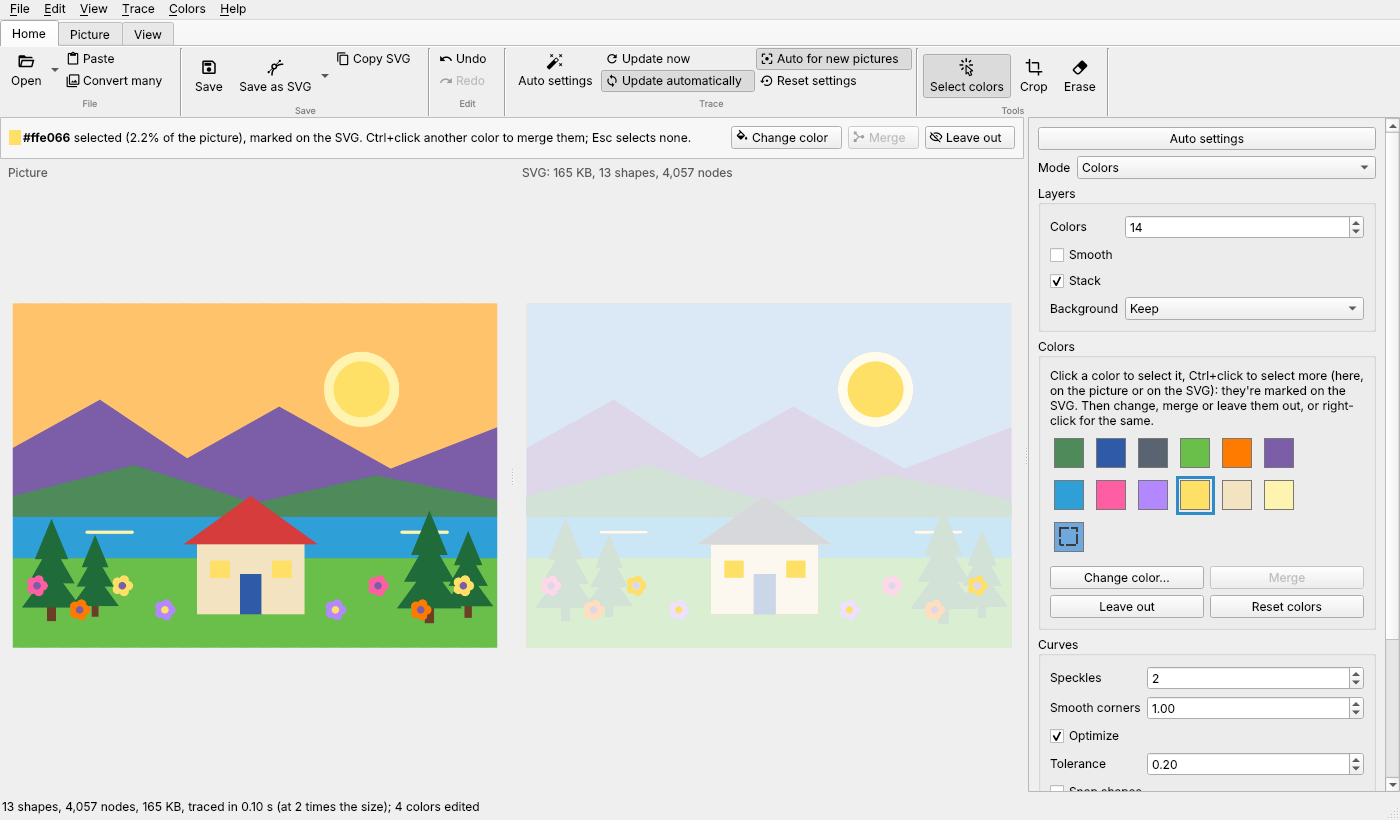
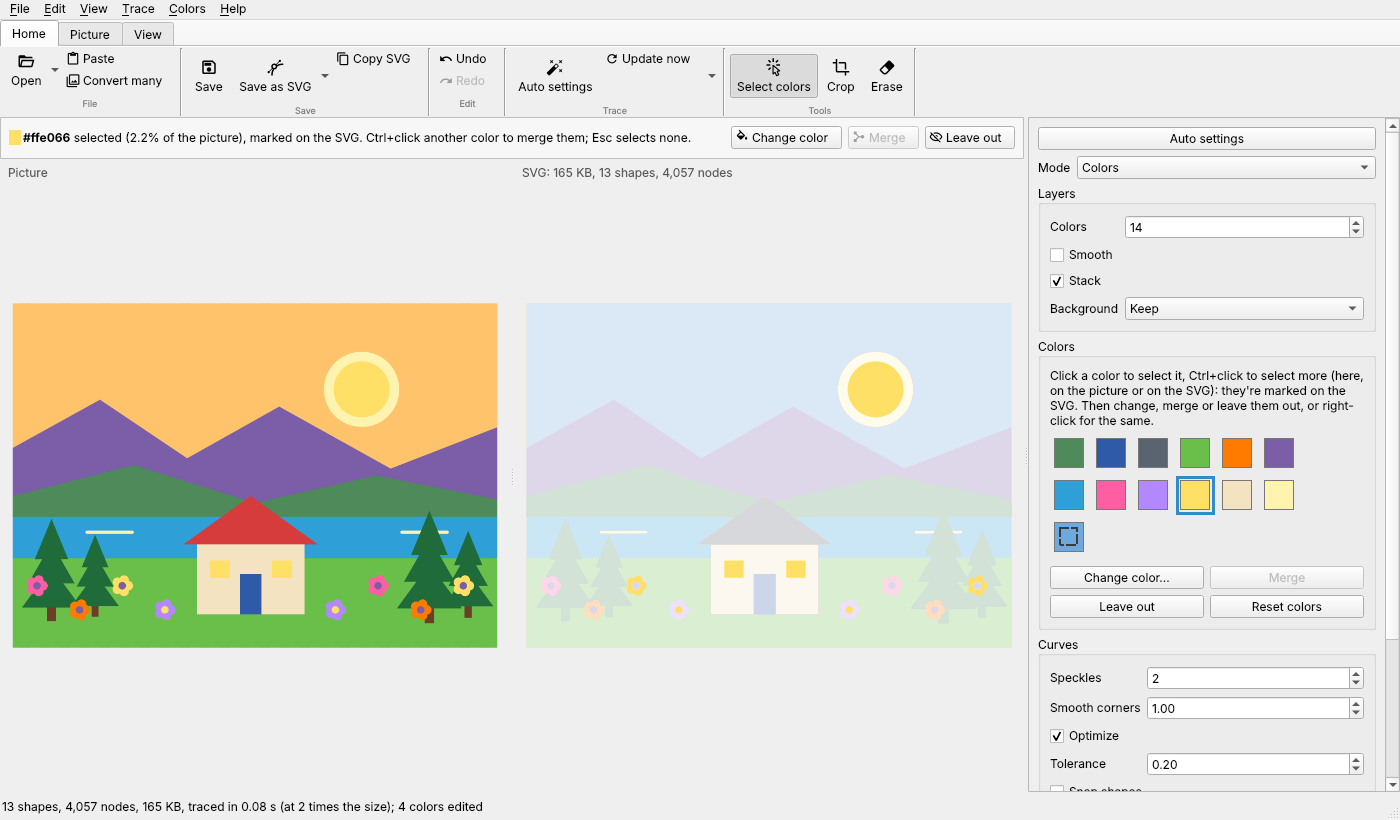
Ribbon: the Trace group's switches under its arrow (the Spanish Home tab didn't fit 1366 px on Linux)
GitHub's Linux machine has wider fonts: the Spanish Home tab needed 1,439
pixels. Update automatically, Auto for new pictures and Reset settings are
listed under the Trace group's arrow; Auto settings and Update now stay as
buttons. Screenshots made again.

Claude-Session: https://claude.ai/code/session_01Ho1n52Zg59vnp58FuFfp21

Changed region(s): [[0.3686, 0.061, 0.7986, 0.122], [0.1843, 0.9756, 0.3379, 1.0]]

diff --git a/kanzonassvg/app.py b/kanzonassvg/app.py
@@ -1690,8 +1690,10 @@ class MainWindow(QMainWindow):
             (tr("File"), "large", [self.b_open, Stack([self.a_paste, self.a_many])]),
             (tr("Save"), "large", [self.a_save, save_as, Stack([self.a_copy])]),
             (tr("Edit"), "small", [self.a_undo, self.a_redo]),
-            (tr("Trace"), "large", [self.a_auto_settings, Stack([self.a_update, self.a_auto]),
-                                    Stack([self.a_auto_new, self.a_reset])]),
+            # (the switches used less often under the group's arrow: in Spanish, with the wider
+            # fonts of GitHub's Linux machine, the tab needed 1,439 pixels of the 1,366)
+            (tr("Trace"), "large", [self.a_auto_settings, Stack([self.a_update])],
+             [self.a_auto, self.a_auto_new, self.a_reset]),
             (tr("Tools"), "large", [self.a_select, self.a_crop, self.a_erase]),
         ])
         r.add_tab(tr("Picture"), [

diff --git a/CHANGELOG.md b/CHANGELOG.md
@@ -2,7 +2,7 @@
 
 | Version | Date | Commit | What changed |
 |---|---|---|---|
-| 1.5 | 2026-11-22 | (this one) | **A ribbon and tools that say what they do** (the owner: it wasn't clear how the editing tools worked). The ribbon (kanzonassvg/ribbon.py, KanzonasPDF's, adapted): Home (File: Open, with the pictures opened last under its arrow, Paste, Convert many; Save: Save, Save as with SVG/PDF/EPS/DXF under its arrow, Copy SVG; Edit; Trace; Tools), Picture (Tools; Colors: Change color, Merge, Leave out, Reset colors, Select none; Crop; Eraser) and View (Zoom; Show; Help), built from the menus' commands (the same names, shortcuts, checks and grayed states), group names shown, the tab kept, *View > Collapse the ribbon* (Ctrl+F1, or double-click a tab); every tab fits a 1366-pixel screen in English and Spanish. Its icons are Material Design Icons 6.9.96 (Apache-2.0, the font as in qtawesome 1.4.0, kanzonassvg/fonts, only the 36 used listed in kanzonassvg/icons.py: 25 ms at start, 67 with the whole character map), drawn in the system's text color. **The tools**: *Trace > Select colors* (new, on at first), *Crop picture* and *Erase on the picture*, one at a time; a bar above the picture and the SVG says what the one on does, with its controls (Select colors: Change color, Merge, Leave out for the selection, and what's selected; Erase: a Size slider, Restore the picture, Done; Crop: Cancel); Esc goes back to Select colors, then selects no color; a new picture starts with Select colors. **Colors**: the selected colors marked on the SVG (the SVG drawn with every other color faded 75% toward white, everything in its place: drawing only the selected colors over a faded SVG was wrong with Stack, a color's shape covering those stacked on it; tracing.marked); over the picture or the SVG, the status bar says which color a click selects, and the cursor is a hand; right-click on the picture, the SVG or a swatch: the color commands (the color there selected first) and the tools; a **Colors** menu (Change color..., Merge colors..., Leave out (Delete), Reset colors, Select no color); Merge's list opens where it was asked for. **Erase**: a circle shows the eraser at its size (was a crosshair). **Save as SVG/PDF/EPS/DXF** (the owner: picking the type in the file dialog's list was easy to miss): a command for each, the dialog listing only that kind with the extension filled in; Save asks the first time as the kind saved last. **The wheel** (the owner): over the picture it moves it (Shift: sideways) and Ctrl+wheel zooms (it zoomed, and a turn meant for the panel zoomed the picture); over the settings panel, a number or a list changes only once clicked into, else the panel scrolls (scrolling changed Colors, Speckles... on the way). Tests: tests/test_ribbon.py (15: built from the menus, icons, fits 1366 px in both languages, collapse, each Save as and its dialog, the tools one at a time, Esc, the eraser's size, a mode without colors, the mark (and with Stack), the hover hint, right-click menus and Merge from one, the wheel, the panel's numbers); self test "ribbon and tools" (the icon font in the finished programs, every ribbon button with an icon, the tools, the mark); app battery steps tool, hover, menu, save_as, wheel, ribbon, and a check that the mark is the selected colors' (the battery also reports an exception out of its own checks, which ended a run with nothing said). |
+| 1.5 | 2026-11-22 | (this one) | **A ribbon and tools that say what they do** (the owner: it wasn't clear how the editing tools worked). The ribbon (kanzonassvg/ribbon.py, KanzonasPDF's, adapted): Home (File: Open, with the pictures opened last under its arrow, Paste, Convert many; Save: Save, Save as with SVG/PDF/EPS/DXF under its arrow, Copy SVG; Edit; Trace: Auto settings, Update now, and Update automatically, Auto for new pictures and Reset settings under its arrow (as buttons, the Spanish tab needed 1,439 pixels on GitHub's Linux machine, whose fonts are wider; the test caught it); Tools), Picture (Tools; Colors: Change color, Merge, Leave out, Reset colors, Select none; Crop; Eraser) and View (Zoom; Show; Help), built from the menus' commands (the same names, shortcuts, checks and grayed states), group names shown, the tab kept, *View > Collapse the ribbon* (Ctrl+F1, or double-click a tab); every tab fits a 1366-pixel screen in English and Spanish. Its icons are Material Design Icons 6.9.96 (Apache-2.0, the font as in qtawesome 1.4.0, kanzonassvg/fonts, only the 36 used listed in kanzonassvg/icons.py: 25 ms at start, 67 with the whole character map), drawn in the system's text color. **The tools**: *Trace > Select colors* (new, on at first), *Crop picture* and *Erase on the picture*, one at a time; a bar above the picture and the SVG says what the one on does, with its controls (Select colors: Change color, Merge, Leave out for the selection, and what's selected; Erase: a Size slider, Restore the picture, Done; Crop: Cancel); Esc goes back to Select colors, then selects no color; a new picture starts with Select colors. **Colors**: the selected colors marked on the SVG (the SVG drawn with every other color faded 75% toward white, everything in its place: drawing only the selected colors over a faded SVG was wrong with Stack, a color's shape covering those stacked on it; tracing.marked); over the picture or the SVG, the status bar says which color a click selects, and the cursor is a hand; right-click on the picture, the SVG or a swatch: the color commands (the color there selected first) and the tools; a **Colors** menu (Change color..., Merge colors..., Leave out (Delete), Reset colors, Select no color); Merge's list opens where it was asked for. **Erase**: a circle shows the eraser at its size (was a crosshair). **Save as SVG/PDF/EPS/DXF** (the owner: picking the type in the file dialog's list was easy to miss): a command for each, the dialog listing only that kind with the extension filled in; Save asks the first time as the kind saved last. **The wheel** (the owner): over the picture it moves it (Shift: sideways) and Ctrl+wheel zooms (it zoomed, and a turn meant for the panel zoomed the picture); over the settings panel, a number or a list changes only once clicked into, else the panel scrolls (scrolling changed Colors, Speckles... on the way). Tests: tests/test_ribbon.py (15: built from the menus, icons, fits 1366 px in both languages, collapse, each Save as and its dialog, the tools one at a time, Esc, the eraser's size, a mode without colors, the mark (and with Stack), the hover hint, right-click menus and Merge from one, the wheel, the panel's numbers); self test "ribbon and tools" (the icon font in the finished programs, every ribbon button with an icon, the tools, the mark); app battery steps tool, hover, menu, save_as, wheel, ribbon, and a check that the mark is the selected colors' (the battery also reports an exception out of its own checks, which ended a run with nothing said). |
 | 1.4 | 2026-11-21 | 022f149 | Four pieces in one release. **Convert many pictures**: Many pictures at once in the window: *File > Convert many pictures...* (Ctrl+Shift+O), also when several pictures are picked in Open picture or dragged in, or a folder (kanzonassvg/batch.py). A list (add pictures, a folder's pictures but not its SVGs, drag in, remove, clear), Auto settings for each picture (the same SVG as opening it) or the settings shown (not the color edits or crop), SVG/PDF/EPS/DXF at the Saved width, next to each picture or in one folder (made if needed), files already there skipped unless Replace is on. One picture at a time in the background; each row says saved (shapes, nodes), skipped or why it failed, and the next is done anyway; Stop stops at once (closing the window too). Fixed before release (the app battery's new step found it): stopped before the first picture, the summary went back to "N pictures"; regression test. Tests: tests/test_batch.py; self test "converting many"; app battery step "many". **Snap shapes**: (Curves; `--snap`; kz_options.snap, core/src/snap.h): on each Potrace outline, a curve within 0.5 px and 1.5% of its length of its chord becomes a line, lines going on in one direction (within 0.35 px and 3%) one line; lines within 1.5 degrees (and 4 px) of level or upright exactly so (the points they join sharing one y or x, curves keeping their direction from a moved point); an outline within 0.5 px (0.4% of the radius when bigger) of an ellipse with level axes, going round once, that ellipse (a circle when the radii are within 2%), fitted on the equation then refined on the distances, as four exact arcs, the way it went round (holes stay holes). Off at first; Auto leaves it as set (also Convert many pictures' Auto); Undo, Reset settings, kept; not in Autotrace. Measured with Auto settings, off then on (badly wrong pixels, nodes): logo 0.253% 761 / 0.273% 677; logo JPEG 0.327% 756 / 0.333% 672; logo alpha 0.254% 1028 / 0.273% 921; smiley 0.238% 348 / 0.298% 250 (its face's ring isn't quite round in the picture: two perfect circles even it out); plan 0.001% 4464 / 0.001% 4337; Starry Night 2.865% 106784 / 2.873% 106439; sunflower 2.367% 4079 / 2.442% 3994; flat illustration 0.278% 4452 / 0.387% 2663. Off, the SVG is byte for byte what it was (tests/reference/quality.json unchanged). Tests: tests/test_snap.py; the engine battery and the fuzzer try it. **Outlines, eraser, Open recent, the help**: *View > Show outlines* (Ctrl+L): the SVG drawn as its outlines, 1 screen pixel wide in dark gray (half a pixel over, so lines on whole pixels are one dark pixel, not two gray ones), nodes as blue squares at 150% zoom or more or when 3,000 or fewer; by the engine (kz_drawing_render_outlines, off Python's lock), kept for next time. *Trace > Erase on the picture* (Ctrl+E, [ and ] for the size, Esc to stop): strokes dragged on the picture made see-through, kept in the opened picture's pixels (crop and uncrop keep them), part of Undo; *Restore the picture* (Ctrl+Shift+E); the file never changes. *File > Open recent*: the last 10 pictures, a missing one said and taken off, *Clear the list*. The help: numbered chapters with a rule between them, a chapter list (following the scroll), and a search (Ctrl+F) marking every match, counting them in each chapter, Enter/F3 and Shift+Enter; it no longer blocks the window. Tests: tests/test_picture_tools.py, tests/test_help_window.py; self test "outlines and erasing"; app battery steps erase, outlines, recent, and a check that the picture traced is the opened one with its erasing and crop; the engine battery and the fuzzer now draw every trace (filled and outlines, any size and place) and check nothing is written past the buffer (they didn't draw before). **Spanish**: KanzonasSVG in Spanish: *View > Language* (Automatic, English, Español; at the next start). Every text the window shows goes through tr() (kanzonassvg/i18n.py, as KanzonasPDF's) with the translations in kanzonassvg/locale/es.po (257 texts), the help in Spanish (kanzonassvg/help_es.py, the same 16 chapters), Qt's own buttons and dialogs from Qt's qtbase_es; pieces glued into sentences and plurals made of parts rewritten as whole sentences; thousands written 4.079 in Spanish (a comma is its decimal mark). The command line stays English; the update box's notes are in English. The help gets a Language chapter. Tests: tests/test_i18n.py (every text translated with the same %s/%d in order, no stale entries, the Spanish help naming every menu command as the Spanish menu shows it, the window, help and a trace in Spanish, the Language menu, the command line in English, Qt's Spanish); self test "Spanish" in the finished programs; the tests, batteries, self test and screenshots run in English whatever the computer's language. **Fixed (the full checks' app battery found it, and the owner on a scanned page): Centerline froze on big pictures.** Autotrace's thinning (thin-image.c) went over the whole picture on every pass, and a solid area needs a pass for each pixel from its edge to its middle: a scanned page traced with Enlarge Auto (3 times) took 22 s, 19.6 of them thinning, and the app battery's pictures with big filled areas at 4 times took 20-40 minutes ("tracing never settled", seeds 425357 and 216941). And Cancel wasn't noticed while it thinned: Autotrace's test_cancel only read a flag set when progress was reported, and none is during thinning; so Colors picked during a Centerline waited for it (35-41 s there) and closing the window waited too (the window looked frozen; the owner had to end it). Now the thinning looks only at pixels of the color next to another one (a list grown as pixels are deleted, a pixel leaving it once kept in all four directions with no neighbor changed): the same pixels as before (tests/thin_exact.c against the original, tests/thin_reference.c, on 8,000 random pictures in the unit tests, 60,000 by hand), the page in 5.0 s (thinning 1.2 s at Enlarge 3 for a 28-megapixel area), the same 11,178 nodes; Progress::poll() asks the caller's callback (every 50 ms at most) and thinning checks it every pass; the background color is passed to the thinning, not kept in a static variable two traces at once could change. Switching to Colors mid-Centerline: 2.6-2.9 s. Cancel is also noticed while the colors are reduced (any mode: each color step checks it as it starts, smoothing between bands of rows; nothing was before: 1.3 s on that page at 4 times, over 1.5 s on GitHub's Windows machine, which the new test caught), and while Autotrace finds the lines (it checked only after the whole picture, and our progress callback, once stopped, threw and caught an exception for every pixel: 3-15 s after Cancel; now 0.01 s). Every cancel of that trace stops within 0.3 s. Tests: tests/test_thinning.py; tests/test_speed.py: centerline of a solid area at 4 times (3 s, budget 20), cancelled in the colors, while thinning and while finding the lines (each stops within 0.3 s, budget 1.5), the window switching away from Centerline and closing during one. |
 | 1.3 | 2026-11-21 | 3b51f6f | Saving for cutting machines, lasers and printers: *File > Save...* and *Save as...* (were Save SVG) save as SVG, PDF, EPS or DXF (the type picked, or the extension; kanzonassvg/export.py): PDF and EPS one page, the path numbers copied under a scale (exact; PDF drawn by PyMuPDF matches the SVG pixel for pixel), DXF R12 (read by nearly every CAD, laser and cutting program) with one layer per color named by it (COLOR_FF0000) in the nearest AutoCAD color, curves as straight pieces within 0.025 mm, in mm or inches. **Saved width** (Size): the picture's pixels (96 to the inch) or a width in inches or mm, the height following; it changes only the file (and Copy SVG), not the trace, and is kept. PDF, EPS and DXF are written in the background. The SVG has one group for each color (an Inkscape layer, named by its color; a color coming back above another in Autotrace gets a second group, the order kept) and says the program's version (it said the engine's, 1.0). The node count (the points the outlines go through) above the SVG and in the status bar. Command line: --format, --width 4in/100mm, the -o extension picks the type. Tests: tests/test_export.py (each format drawn or read back and compared with the SVG: PDF with PyMuPDF, EPS with Ghostscript, DXF read with ezdxf and drawn with Qt; tests only, in constraints.txt; Ghostscript on the Linux build), the self test saves all four, the app battery saves in random formats and sizes, the engine battery checks the groups. |
 | 1.2.3 | 2026-11-17 | 851742d | The settings panel no longer moves when the number of colors changes (the owner: the mouse was no longer over the Colors arrows): more colors (more rows of swatches) brought the panel's scroll bar, which made it 14 px narrower and moved the arrows sideways; it's now always shown (grayed when there's nothing to scroll: keeping room for it instead missed by 8 px on GitHub's Linux machine, its width depending on the style). And with wider fonts (GitHub's Linux machine) the panel was narrower than its contents: a scroll bar across came and went with the rows of swatches and the contents widened 14 px under the mouse; the swatch grid now always keeps its six columns, each as wide as a swatch measures on that system, and the panel's minimum width follows its contents (worked out again whenever they change, only ever wider). Fewer colors, with the panel scrolled to the bottom, pulled everything 42 px down; the Colors box now keeps the height it has had for the picture (a new picture starts compact), its swatches at the top left. Test: the arrows stay put through 8, 24, 40, 6, 30 and 3 colors in a 900 and a 600 px window (they moved without the fix), with the panel squeezed to its minimum as on GitHub's machine. README: new screenshots (the window as it is now: the Edit menu, the SVG's size, the background's own swatch; tools/make_screenshots.py named the merge color, as merge() asks since 1.2.1) and their alt texts. Slop check: British spellings matched as stems (one with an ending added got past it in this very row) and it reads CHANGELOG.md and the Colors box's text too. |
